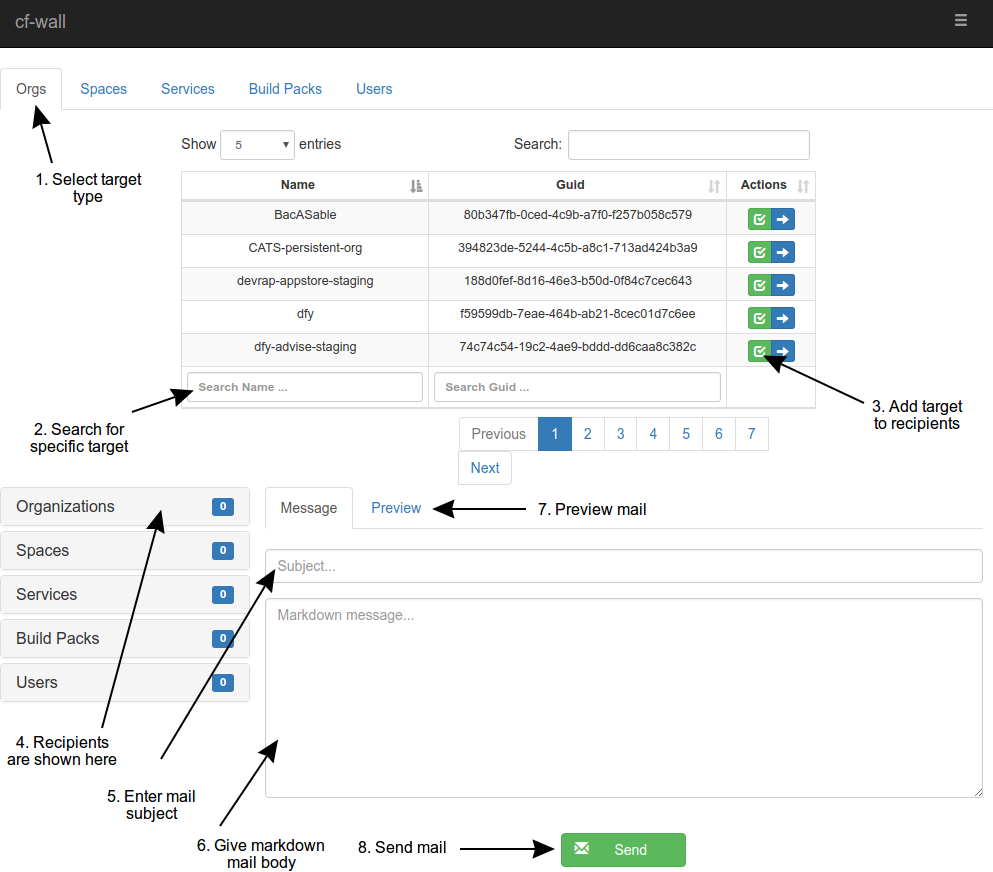
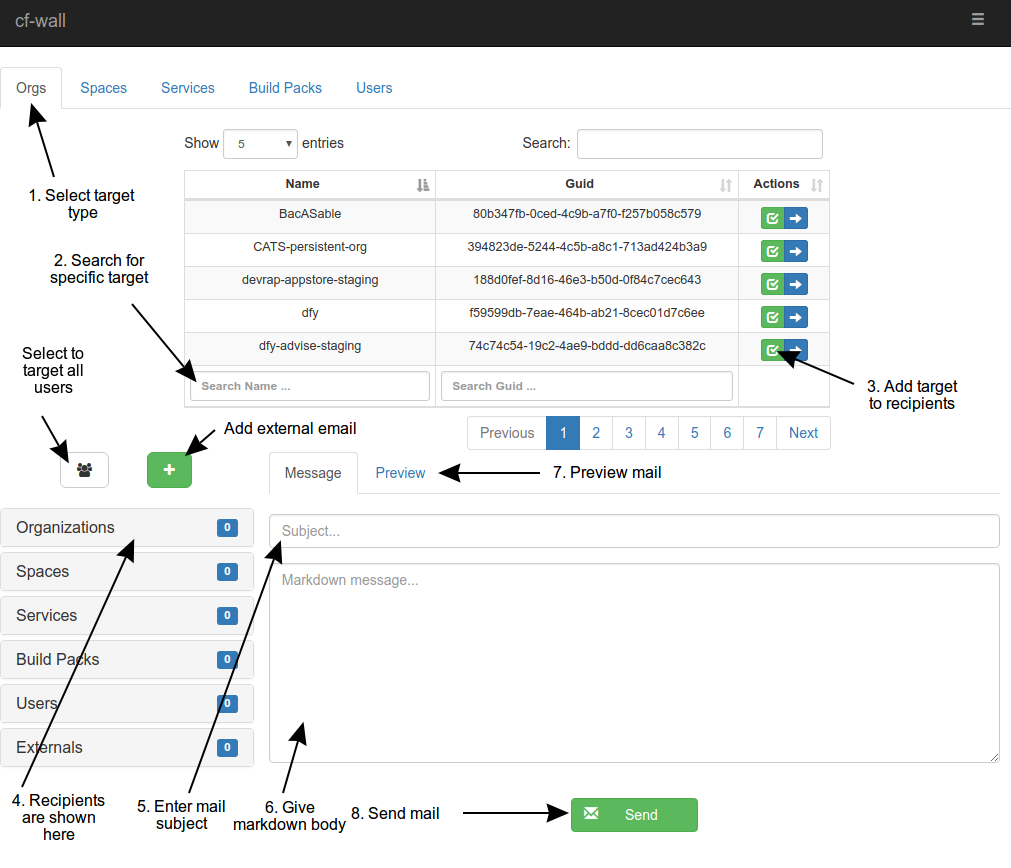
update doc push static configuration recipients to Cc

diff --git a/ui/static/cf-wall.js b/ui/static/cf-wall.js
@@ -190,8 +190,12 @@ function Message(p_app) {
       p_app.addMessage("Message successfully.");
       p_app.addMessage("from: "    + p_data["from"]);
       p_app.addMessage("subject: " + p_data["subject"]);
+      p_app.addMessage("copy: ");
+      $.each(p_data["copy"], function(c_idx, c_val) {
+        p_app.addMessage(c_val);
+      });
       p_app.addMessage("recipients: ");
-      $.each(p_data["emails"], function(c_idx, c_val) {
+      $.each(p_data["recipients"], function(c_idx, c_val) {
         p_app.addMessage(c_val);
       });
     }

diff --git a/api/message.go b/api/message.go
@@ -45,10 +45,11 @@ type MessageRequest struct {
 }
 
 type MessageResponse struct {
-	Emails  []string `json:"emails"`
-	Subject string   `json:"subject"`
-	Message string   `json:"message"`
-	From    string   `json:"from"`
+	Recipients  []string `json:"recipients"`
+	Copy        []string `json:"copy"`
+	Subject 		string   `json:"subject"`
+	Message 		string   `json:"message"`
+	From    		string   `json:"from"`
 }
 
 
@@ -105,14 +106,14 @@ func (self *MessageHandler) createCtx(pUsers map[string]string, pReq *http.Reque
 		lCtx.ResData.Subject = fmt.Sprintf("%s %s", self.Config.MailTag, lCtx.ReqData.Subject)
 	}
 
-	// add recipients from static config
+	// add Cc from static config
 	for _, cCc := range self.Config.MailCc {
-		lCtx.ResData.Emails = append(lCtx.ResData.Emails, cCc)
+		lCtx.ResData.Copy = append(lCtx.ResData.Copy, cCc)
 	}
 
-	// add request additional recipients
+	// add To additional recipients
 	for _, cDest := range lCtx.ReqData.Recipients {
-		lCtx.ResData.Emails = append(lCtx.ResData.Emails, cDest)
+		lCtx.ResData.Recipients = append(lCtx.ResData.Recipients, cDest)
 	}
 
 	return &lCtx, nil
@@ -149,7 +150,8 @@ func (self *MessageHandler) HandleMessage(pRes http.ResponseWriter, pReq *http.R
 
 	self.sendMessage(
 		lCtx.ResData.From,
-		lCtx.ResData.Emails,
+		lCtx.ResData.Recipients,
+		lCtx.ResData.Copy,
 		lCtx.ResData.Subject,
 		lCtx.ResData.Message)
 
@@ -173,7 +175,8 @@ func (self *MessageHandler) HandleMessageAll(pRes http.ResponseWriter, pReq *htt
 
 	self.sendMessage(
 		lCtx.ResData.From,
-		lCtx.ResData.Emails,
+		lCtx.ResData.Recipients,
+		lCtx.ResData.Copy,
 		lCtx.ResData.Subject,
 		lCtx.ResData.Message)
 
@@ -183,8 +186,16 @@ func (self *MessageHandler) HandleMessageAll(pRes http.ResponseWriter, pReq *htt
 func (self *MessageHandler) sendMessage(
 	pFrom    string,
 	pTo      []string,
+	pCpy     []string,
 	pSubject string,
 	pContent string) {
+
+	log.WithFields(log.Fields{
+		"To"      : pTo,
+		"Cc"      : pCpy,
+		"Subject" : pSubject,
+		"From"    : pFrom,
+	}).Debug("sending mail")
 
 	if self.Config.MailDry {
 		return
@@ -209,6 +220,7 @@ func (self *MessageHandler) sendMessage(
 	lMsg := gomail.NewMessage()
 	lMsg.SetHeader("From", pFrom)
 	lMsg.SetHeader("To", pTo...)
+	lMsg.SetHeader("Cc", pCpy...)
 	lMsg.SetHeader("Subject", pSubject)
 	lMsg.SetBody("text/html", pContent)
 
@@ -303,14 +315,14 @@ func (self *MessageReqCtx) addUsers(pUsers []string) {
 func (self *MessageReqCtx) addUser(pGuid string) {
 	lMail, lOk := self.UserMails[pGuid]
 	if lOk {
-		self.ResData.Emails = append(self.ResData.Emails, lMail)
+		self.ResData.Recipients = append(self.ResData.Recipients, lMail)
 	}
 }
 
 
 func (self *MessageReqCtx) addAllUsers() {
 	for _, cMail := range self.UserMails {
-		self.ResData.Emails = append(self.ResData.Emails, cMail)
+		self.ResData.Recipients = append(self.ResData.Recipients, cMail)
 	}
 }
 

diff --git a/core/config.go b/core/config.go
@@ -4,8 +4,6 @@ import     "flag"
 import     "os"
 import     "fmt"
 import     "strconv"
-import     "reflect"
-import     "errors"
 import     "encoding/json"
 import log "github.com/sirupsen/logrus"
 import     "github.com/cloudfoundry-community/gautocloud"
@@ -55,24 +53,7 @@ func InitLogger(pLevel string) {
 }
 
 func NewAppConfig() AppConfig {
-	lConf := AppConfig{
-		ConfigFile:      "",
-		UaaClientName:   "cf-wall",
-		UaaClientSecret: "password",
-		UaaSkipVerify:   false,
-		UaaEndPoint:     "https://uaa.example.com",
-		CCEndPoint:      "https://api.example.com",
-		CCSkipVerify:    false,
-		HttpCert:        "",
-		HttpKey:         "",
-		HttpPort:        80,
-		LogLevel:        "error",
-		MailFrom:        "cf-wall@localhost",
-		MailDry:         false,
-		MailCc:          []string{},
-		MailTag:         "[cf-wall]",
-		ReloadTemplates: false,
-	}
+	lConf := AppConfig{}
 
 	InitLogger("debug")
 	lConf.parseArgs()
@@ -127,12 +108,11 @@ func (self *AppConfig) parseArgs() {
 	}
 
 	// 2.
-	var lTmp AppConfig
-	lErr := gautocloud.Inject(&lTmp)
+	lErr := gautocloud.Inject(self)
 	if lErr != nil {
 		log.WithError(lErr).Warn("unable to load gautocloud config")
 	}
-	mergeObject(self, &lTmp)
+	log.WithField("conf", self).Debug("final conf")
 
 	// 3.
 	flag.Parse()
@@ -148,41 +128,8 @@ func (self *AppConfig) parseArgs() {
 	}
 }
 
-func mergeObject(pRef interface{}, pData interface{}) (error) {
-	lType    := reflect.TypeOf(pRef)
-	if lType != reflect.TypeOf(pData) {
-		return errors.New("type mismatch")
-	}
-
-	lRefVal  := reflect.ValueOf(pRef)
-	lDataVal := reflect.ValueOf(pData)
-
-	if lType.Kind() == reflect.Ptr {
-		lRefVal  = lRefVal.Elem()
-		lDataVal = lDataVal.Elem()
-	}
-
-	for cIdx := 0; cIdx < lRefVal.NumField(); cIdx++ {
-		lRefField  := lRefVal.Field(cIdx)
-		lDataField := lDataVal.Field(cIdx)
-		lFieldType := lDataField.Type()
-
-		if lFieldType.Comparable() {
-			lZeroValue := reflect.Zero(lFieldType).Interface()
-			lDataValue := lDataField.Interface()
-			if lDataValue != lZeroValue {
-				lRefField.Set(lDataField)
-			}
-		} else {
-			lRefField.Set(lDataField)
-		}
-	}
-	return nil
-}
-
 func init() {
 	gautocloud.RegisterConnector(generic.NewConfigGenericConnector(AppConfig{}))
-
 }
 
 // Local Variables:

diff --git a/docs/configuration.md b/docs/configuration.md
@@ -87,6 +87,16 @@ $ cp ./config/cf-wall.json.sample ./config/cf-wall.json
 Then adapt values for your environment.
 ```
 {
+  // UAA client name and secret
+  "uaa-client"        : "cf-wall",
+  "uaa-secret"        : "cf-wall",
+
+  // url to UAA api endpoint, same used in uaac
+  "uaa-url"           : "https://uaa.local.pcfdev.io",
+
+  // don't check ssl certificates when working with pcfdev
+  "uaa-skip-verify"    : true,
+
   // url to cloud-foundry api endpoint
   "cc-url"            : "https://api.local.pcfdev.io",
 
@@ -103,18 +113,20 @@ Then adapt values for your environment.
   // Logger serverity level
   "log-level"         : "debug",
 
-  // UAA client name and secret
-  "uaa-client"        : "cf-wall",
-  "uaa-secret"        : "cf-wall",
+  // email origin for all mails sent by cf-wall
+  "mail-from"         : "root@localhost",
 
-  // url to UAA api endpoint, same used in uaac
-  "uaa-url"           : "https://uaa.local.pcfdev.io",
+  // when true, don't actually send mails, test only
+  "mail-dry": false,
 
-  // don't check ssl certificates when working with pcfdev
-  "uaa-skip-verify"    : true,
+  // static list of carbon copy recipients
+  "mail-cc" : "root@localhost",
 
-// email origin for all mails sent by cf-wall
-  "mail-from"         : "root@localhost"
+  // tag to automatically prepend to mail subjects
+  "mail-tag": "[cf-wall]",
+
+  // prase html template at each requests (test only)
+  "reload-templates" : false
 }
 ```
 

diff --git a/docs/api.md b/docs/api.md
@@ -10,6 +10,7 @@
     - [/buildpacks](#buildpacks)
     - [/users](#users)
     - [/message](#message)
+    - [/message_all](#message_all)
 
 <!-- markdown-toc end -->
 
@@ -217,6 +218,37 @@ Send mail to given targets
 
     // list of targeted users guids
     "users"      : [ "0a01ace3-4a0f-458a-a78d-4a6ef6deeac8", "61ecb1cb-47fa-4286-8d1b-8c279df65de7" ],
+
+    // list of additional recipients
+    "recipients" : [ "user@domain.com" ],
+
+    // mail subject
+    "subject" : "My Pretty Subject",
+
+    // mail body (markdown syntax)
+    "message" : "# Title 1\n - list1\n"
+  }
+  ```
+
+* Response 204 (No content)
+
+
+
+
+
+## /message_all
+
+Send mail to all UAA users
+
+* Method: POST
+
+* Headers: Authorization (bearer)
+
+* Request payload (all fields are mandatory):
+  ```
+  {
+    // list of additional recipients
+    "recipients" : [ "user@domain.com" ],
 
     // mail subject
     "subject" : "My Pretty Subject",
